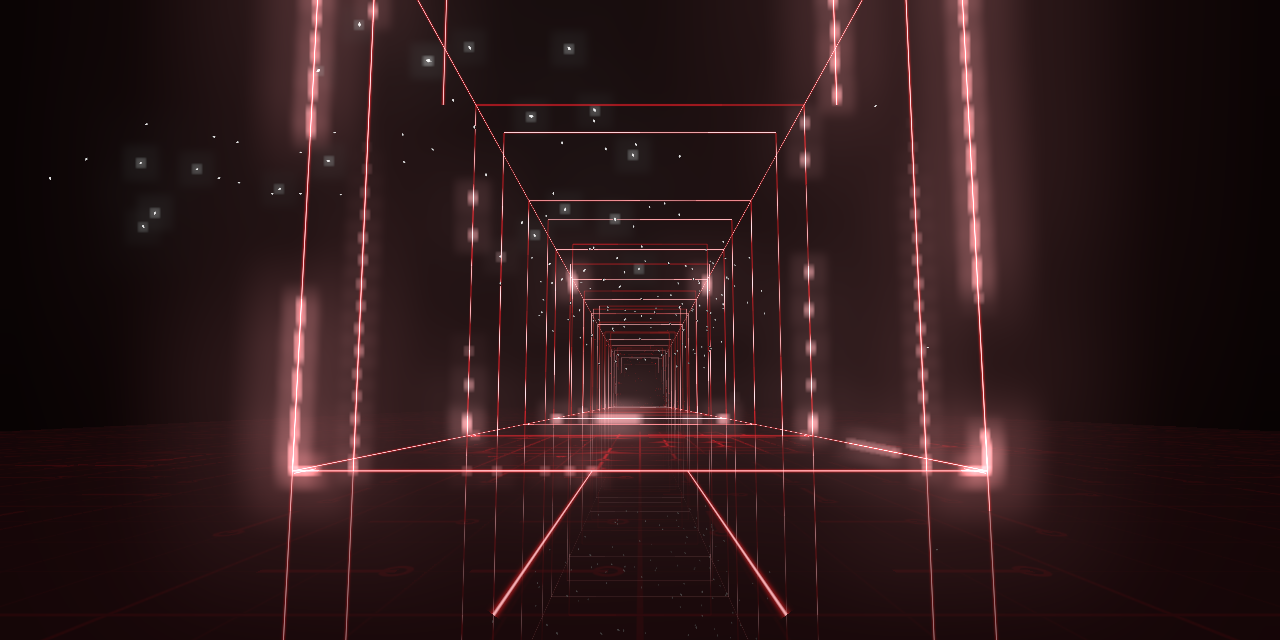
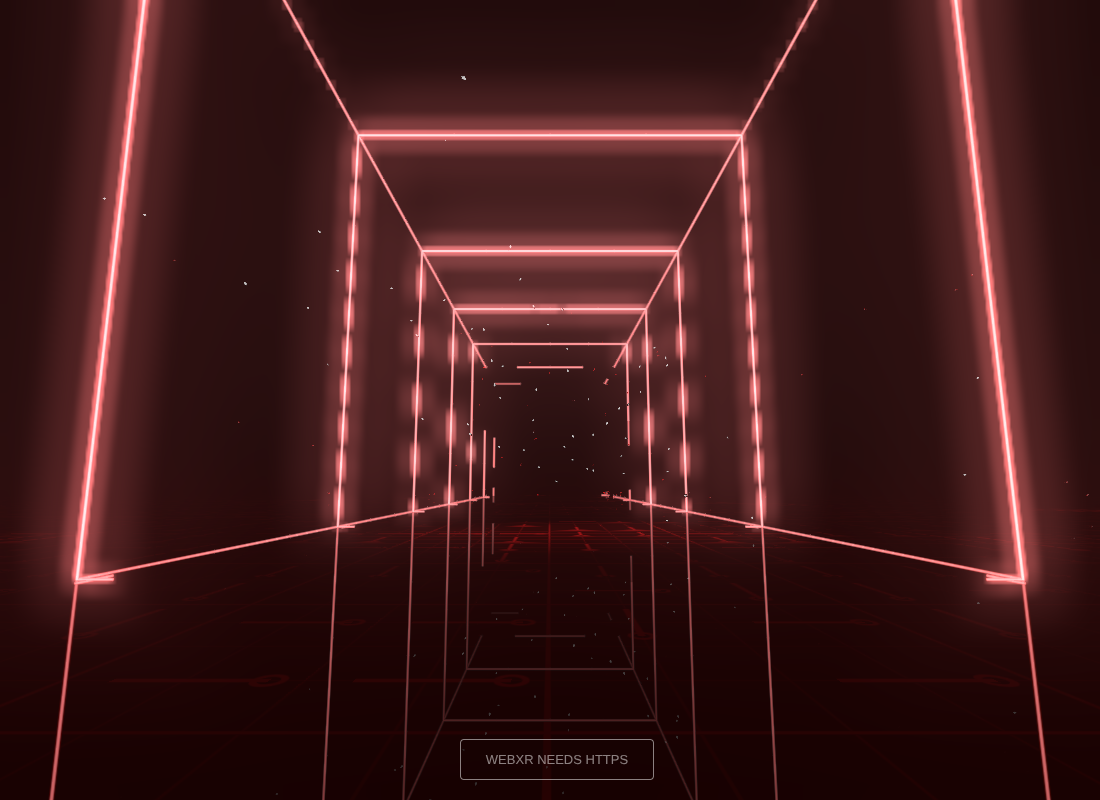
Cruzamento de 4 corredores, linhas únicas e transições de cor
- O participante fica no centro de um cruzamento; os quatro braços constroem-se
  ao mesmo tempo, do centro para fora, e a onda de luz é radial.
- Uma só moldura por anel e um só arco Λ (sem molduras/arcos interiores nem
  chevrons junto ao vértice), para não haver linhas duplicadas.
- Paleta ao longo da timeline (linhas, cursores, chão, névoa e horizonte).

Claude-Session: https://claude.ai/code/session_014cErPYdH6zWq8Ho8MftZNa

diff --git a/structure/blueprints.js b/structure/blueprints.js
@@ -8,17 +8,35 @@ import { mulberry32 } from '../util/math.js';
 
 const MAX_PIECE = 4.2;
 
-// Escala: valores escolhidos dentro das propostas do prompt (molduras 12–20 m, corredor 150–250 m).
+// Escala: molduras 16 m, arcos 24 m. O participante está no centro de um cruzamento:
+// quatro corredores (braços) saem do centro, um para cada lado, e perdem-se na névoa.
 export const SCALE = {
   squareSize: 16,      // molduras quadradas: 16 x 16 m
-  squareRings: 16,
-  squareSpacing: 12,   // 16 anéis * 12 m: o túnel vai até ~-192 m
+  squareRings: 9,      // anéis por braço
+  squareSpacing: 12,   // 9 anéis * 12 m: cada braço vai até ~106 m
+  squareFirst: 10,     // distância do centro ao primeiro anel
   archHeight: 24,      // arcos Λ: 24 m de altura, mais monumentais
   archHalfBase: 14,
-  archRings: 18,
-  archSpacing: 11,     // até ~-197 m
-  firstZ: -12,
+  archRings: 9,
+  archSpacing: 11,
+  archFirst: 15,       // > meia-base: os arcos de braços vizinhos não se cruzam
+  arms: 4,
 };
+
+// roda um ponto em torno do eixo vertical, 90° por braço (braço 0 = -Z, à frente)
+function rotArm([x, y, z], k) {
+  const a = (k * Math.PI) / 2, c = Math.round(Math.cos(a)), s = Math.round(Math.sin(a));
+  return [x * c + z * s, y, -x * s + z * c];
+}
+function inArms(build) {
+  const B = new Builder();
+  for (let k = 0; k < SCALE.arms; k++) {
+    const sub = new Builder();
+    build(sub);
+    for (const seg of sub.segments) B.segments.push({ ...seg, a: rotArm(seg.a, k), b: rotArm(seg.b, k) });
+  }
+  return B.segments;
+}
 
 class Builder {
   constructor() { this.segments = []; }
@@ -74,76 +92,50 @@ function baseMarkers(B, x, z, ring) {
   B.edge([x + s * 0.3, 0, z + 0.4], [x + s * 0.3, 0, z - 0.4], ring, { weight: 0.5, delay: 1 });
 }
 
+// Uma única moldura por anel (sem molduras concêntricas, que se liam como linhas duplicadas).
 export function squareTunnel() {
-  const B = new Builder();
-  const { squareSize: S, squareRings: R, squareSpacing: D, firstZ } = SCALE;
+  const { squareSize: S, squareRings: R, squareSpacing: D, squareFirst } = SCALE;
   const h = S / 2;
-  for (let r = 0; r < R; r++) {
-    const z = firstZ - r * D;
-    // moldura exterior: começa num canto do chão, sobe, atravessa o topo e desce
-    B.poly([[-h, 0, z], [-h, S, z], [h, S, z], [h, 0, z]], r, false);
-    // linha do chão da moldura (mais fina)
-    B.edge([-h, 0, z], [h, 0, z], r, { weight: 0.6, delay: 2 });
-    // moldura concêntrica interior
-    const i1 = 1.4;
-    B.poly([[-h + i1, 0, z], [-h + i1, S - i1, z], [h - i1, S - i1, z], [h - i1, 0, z]], r, false, { delay: 3, weight: 0.8 });
-    // terceira moldura, em anéis alternados (ritmo)
-    if (r % 2 === 0) {
-      const i2 = 3.2;
-      B.poly([[-h + i2, S - i2 - 4, z], [-h + i2, S - i2, z], [h - i2, S - i2, z], [h - i2, S - i2 - 4, z]], r, false, { delay: 6, weight: 0.55 });
+  const segments = inArms((B) => {
+    for (let r = 0; r < R; r++) {
+      const z = -squareFirst - r * D;
+      // moldura: começa num canto do chão, sobe, atravessa o topo e desce
+      B.poly([[-h, 0, z], [-h, S, z], [h, S, z], [h, 0, z]], r, false);
+      baseMarkers(B, -h, z, r);
+      baseMarkers(B, h, z, r);
+      // calhas longitudinais que ligam este anel ao seguinte (topo e chão)
+      if (r < R - 1) {
+        const z2 = z - D;
+        B.edge([-h, S, z], [-h, S, z2], r, { delay: 5, weight: 0.7 });
+        B.edge([h, S, z], [h, S, z2], r, { delay: 5, weight: 0.7 });
+        B.edge([-h, 0, z], [-h, 0, z2], r, { delay: 4, weight: 0.5 });
+        B.edge([h, 0, z], [h, 0, z2], r, { delay: 4, weight: 0.5 });
+      }
     }
-    baseMarkers(B, -h, z, r);
-    baseMarkers(B, h, z, r);
-    // calhas longitudinais que ligam este anel ao seguinte (topo e chão)
-    if (r < R - 1) {
-      const z2 = z - D;
-      B.edge([-h, S, z], [-h, S, z2], r, { delay: 5, weight: 0.7 });
-      B.edge([h, S, z], [h, S, z2], r, { delay: 5, weight: 0.7 });
-      B.edge([-h, 0, z], [-h, 0, z2], r, { delay: 4, weight: 0.5 });
-      B.edge([h, 0, z], [h, 0, z2], r, { delay: 4, weight: 0.5 });
-    }
-  }
-  // linhas do chão à escala humana, ao longo do eixo (guias de 1 m)
-  for (let k = 0; k < 2; k++) {
-    const x = k ? 1.1 : -1.1;
-    B.edge([x, 0, -4], [x, 0, firstZ], 0, { weight: 0.35, delay: 0 });
-  }
-  return { name: 'squareTunnel', segments: B.segments, rings: R };
+  });
+  return { name: 'squareTunnel', segments, rings: R };
 }
 
+// Um único arco Λ por anel (sem o Λ interior nem os chevrons junto ao vértice).
 export function chevronCorridor() {
-  const B = new Builder();
-  const { archHeight: H, archHalfBase: W, archRings: R, archSpacing: D, firstZ } = SCALE;
-  for (let r = 0; r < R; r++) {
-    const z = firstZ + 2 - r * D;
-    // arco triangular Λ: sobe pelas duas pernas em simultâneo (delay igual) até ao vértice
-    B.edge([-W, 0, z], [0, H, z], r, {});
-    B.edge([W, 0, z], [0, H, z], r, {});
-    // Λ interior
-    const k = 0.78;
-    B.edge([-W * k, 0, z], [0, H * k, z], r, { delay: 2, weight: 0.75 });
-    B.edge([W * k, 0, z], [0, H * k, z], r, { delay: 2, weight: 0.75 });
-    // chevrons junto ao vértice
-    for (let c = 0; c < 2; c++) {
-      const y = H * (0.86 - c * 0.08), w = W * (0.1 + c * 0.08);
-      const yt = y + w * (H / W);
-      B.poly([[-w, y, z], [0, yt, z], [w, y, z]], r, false, { delay: 5 + c, weight: 0.6 });
+  const { archHeight: H, archHalfBase: W, archRings: R, archSpacing: D, archFirst } = SCALE;
+  const segments = inArms((B) => {
+    for (let r = 0; r < R; r++) {
+      const z = -archFirst - r * D;
+      // sobe pelas duas pernas em simultâneo (delay igual) até ao vértice
+      B.edge([-W, 0, z], [0, H, z], r, {});
+      B.edge([W, 0, z], [0, H, z], r, {});
+      baseMarkers(B, -W, z, r);
+      baseMarkers(B, W, z, r);
+      if (r < R - 1) {
+        const z2 = z - D;
+        B.edge([0, H, z], [0, H, z2], r, { delay: 6, weight: 0.8 }); // cumeeira
+        B.edge([-W, 0, z], [-W, 0, z2], r, { delay: 4, weight: 0.5 });
+        B.edge([W, 0, z], [W, 0, z2], r, { delay: 4, weight: 0.5 });
+      }
     }
-    baseMarkers(B, -W, z, r);
-    baseMarkers(B, W, z, r);
-    if (r < R - 1) {
-      const z2 = z - D;
-      // cumeeira que liga os vértices
-      B.edge([0, H, z], [0, H, z2], r, { delay: 6, weight: 0.8 });
-      B.edge([-W, 0, z], [-W, 0, z2], r, { delay: 4, weight: 0.5 });
-      B.edge([W, 0, z], [W, 0, z2], r, { delay: 4, weight: 0.5 });
-    }
-  }
-  for (let k = 0; k < 2; k++) {
-    const x = k ? 1.1 : -1.1;
-    B.edge([x, 0, -4], [x, 0, firstZ + 2], 0, { weight: 0.35 });
-  }
-  return { name: 'chevronCorridor', segments: B.segments, rings: R };
+  });
+  return { name: 'chevronCorridor', segments, rings: R };
 }
 
 // Mistura: anéis alternados quadrados e triangulares (para o painel de debug).
@@ -157,22 +149,8 @@ export function mixed() {
 
 export const BLUEPRINTS = { squareTunnel, chevronCorridor, mixed };
 
-// Linhas de perspetiva nas paredes laterais, a convergir para o ponto de fuga do corredor.
-export function wallPerspectiveLines() {
-  const segs = [];
-  const vp = [0, 1.6, -320];
-  for (const sx of [-1, 1]) {
-    const x = sx * 26;
-    for (let i = 0; i < 9; i++) {
-      const y = i * 4.5;
-      const a = [x, y, 4];
-      const t = 0.62; // até onde a linha vai em direção ao ponto de fuga
-      const b = [x, y + (vp[1] - y) * t, a[2] + (vp[2] - a[2]) * t];
-      segs.push({ a, b, ring: 0, stagger: 0, weight: 0.22 });
-    }
-  }
-  return segs;
-}
+// Linhas de perspetiva nas paredes: retiradas no cruzamento (não há paredes laterais).
+export function wallPerspectiveLines() { return []; }
 
 export function shuffleWithSeed(arr, seed) {
   const r = mulberry32(seed);

diff --git a/director.js b/director.js
@@ -4,6 +4,7 @@
 // (pulso, onda de luz, fade) em função do tempo. Simulação em passo fixo com seed fixa:
 // a sequência é sempre igual.
 
+import * as THREE from 'three';
 import { TIMELINE } from './timeline.js';
 import { BLUEPRINTS } from './structure/blueprints.js';
 import { mulberry32, smooth, clamp } from './util/math.js';
@@ -274,8 +275,32 @@ export class Director {
   }
 
   // ------------------------------------------------------------------ visuais em função de t
+  // transição de cor: interpola as chaves de TIMELINE.palette e aplica às linhas, cursores,
+  // chão, névoa e horizonte
+  applyPalette(t) {
+    const P = this.cfg.palette;
+    if (!this._pal) {
+      this._pal = P.map((k) => ({ t: k.t, line: new THREE.Color(k.line), warm: new THREE.Color(k.warm), hot: new THREE.Color(k.hot), ambient: new THREE.Color(k.ambient) }));
+      this._c = { line: new THREE.Color(), warm: new THREE.Color(), hot: new THREE.Color(), ambient: new THREE.Color() };
+    }
+    const K = this._pal;
+    let i = 0;
+    while (i < K.length - 2 && t > K[i + 1].t) i++;
+    const A = K[i], B = K[i + 1];
+    const u = smooth(0, 1, (t - A.t) / Math.max(1e-3, B.t - A.t));
+    for (const key of ['line', 'warm', 'hot', 'ambient']) this._c[key].copy(A[key]).lerp(B[key], u);
+    const U = this.lines.uniforms, F = this.env.floorUniforms, c = this._c;
+    U.uColor.value.copy(c.line); U.uWarm.value.copy(c.warm); U.uHot.value.copy(c.hot);
+    this.swarm.uniforms.uRed.value.copy(c.line);
+    F.uColor.value.copy(c.line);
+    F.uAmbient.value.copy(c.ambient);
+    F.uFogColor.value.copy(c.ambient).multiplyScalar(0.0045);
+    if (this.env.scene.fog) this.env.scene.fog.color.copy(c.ambient).multiplyScalar(0.03);
+  }
+
   applyVisuals() {
     const t = this.t, cfg = this.cfg, U = this.lines.uniforms, cx = cfg.climax, c = cfg.complete;
+    this.applyPalette(t);
     const p1 = this.P('complete1');
     let pulse = 0, waveZ = 1000, waveAmp = 0;
     // estrutura completa: respiração suave + onda do primeiro ao último anel
@@ -284,7 +309,7 @@ export class Director {
     }
     if (t >= c.waveAt && t < c.waveAt + c.waveDuration + 1) {
       const k = (t - c.waveAt) / c.waveDuration;
-      waveZ = -6 - k * 210; waveAmp = 1.3 * (1 - smooth(0.85, 1.15, k));
+      waveZ = 6 + k * 110; waveAmp = 1.3 * (1 - smooth(0.85, 1.15, k));
     }
     // clímax: pulso cada vez mais rápido e ondas repetidas
     if (t >= cx.pulseFrom) {
@@ -292,7 +317,7 @@ export class Director {
       const f = 0.6 + 2.2 * k;
       pulse = 0.15 + 0.85 * k * (0.5 + 0.5 * Math.sin((t - cx.pulseFrom) * f * Math.PI * 2));
       const wt = (t - cx.pulseFrom) % 2.2;
-      waveZ = -6 - wt / 2.2 * 220; waveAmp = 1.2 * k;
+      waveZ = 6 + wt / 2.2 * 115; waveAmp = 1.2 * k;
     }
     U.uPulse.value = pulse;
     U.uWaveZ.value = waveZ;

diff --git a/scene/environment.js b/scene/environment.js
@@ -7,8 +7,8 @@ import * as THREE from 'three';
 import { NeonLines } from '../structure/neonLines.js';
 import { wallPerspectiveLines } from '../structure/blueprints.js';
 
-export const FLOOR = { x0: -34, x1: 34, z0: 6, z1: -260 };
-const HEAT_W = 48, HEAT_H = 192;
+export const FLOOR = { x0: -115, x1: 115, z0: 115, z1: -115 }; // zona do cruzamento com mapa de calor
+const HEAT_W = 128, HEAT_H = 128;
 
 const floorVert = /* glsl */`
   varying vec3 vWorld;
@@ -24,6 +24,7 @@ const floorFrag = /* glsl */`
   uniform float uFogDensity;
   uniform vec3 uFogColor;
   uniform vec3 uColor;
+  uniform vec3 uAmbient;     // cor da iluminação ambiente (muda com a timeline)
   uniform float uGlow;        // iluminação geral do chão (sobe com a estrutura)
   uniform float uWaveZ;
   uniform float uWaveAmp;
@@ -60,9 +61,9 @@ const floorFrag = /* glsl */`
     float heat = texture2D(uHeat, clamp(uv, 0.0, 1.0)).r * inside;
     float dist = length(cameraPosition - vWorld);
     float c = circuit(vWorld.xz) * (1.0 - smoothstep(60.0, 160.0, dist)); // sem moiré ao longe
-    float wave = uWaveAmp * exp(-pow((vWorld.z - uWaveZ) / 9.0, 2.0));
+    float wave = uWaveAmp * exp(-pow((length(vWorld.xz) - uWaveZ) / 9.0, 2.0)); // onda radial a partir do centro
     // base quase preta e um pouco brilhante; o padrão quase invisível acende com o calor
-    vec3 base = vec3(0.006, 0.0012, 0.0016);
+    vec3 base = uAmbient * 0.0075;
     vec3 col = base + uColor * c * (0.01 + uGlow * 0.018 + heat * 0.4 + wave * 0.2);
     col += uColor * heat * 0.02;
     // névoa exp2 (igual às linhas) + um decaimento exponencial mais suave só no chão:
@@ -98,6 +99,7 @@ export class Environment {
       uFogDensity: { value: scene.fog.density },
       uFogColor: { value: new THREE.Color().setRGB(0.0035, 0.0006, 0.0008) }, // = cor da névoa no horizonte
       uColor: { value: new THREE.Color('#ff1a2a') },
+      uAmbient: { value: new THREE.Color('#ff2a3a') },
       uGlow: { value: 0 },
       uWaveZ: { value: 1000 },
       uWaveAmp: { value: 0 },

diff --git a/timeline.js b/timeline.js
@@ -42,6 +42,20 @@ export const TIMELINE = {
 
   climax: { pulseFrom: 105, disperseAt: 108, disperseWindow: 4, fadeStart: 113, fadeEnd: 119.5 },
 
+  // Paleta ao longo do tempo (interpolada entre chaves). line: halo das linhas, warm: variação
+  // quente do halo, hot: núcleo, ambient: tom da névoa, do chão e do horizonte.
+  palette: [
+    { t: 0,   line: '#ff1a2a', warm: '#ff3b1a', hot: '#ff9aa6', ambient: '#ff1a2a' },
+    { t: 40,  line: '#ff1a2a', warm: '#ff3b1a', hot: '#ff9aa6', ambient: '#ff1a2a' },
+    { t: 56,  line: '#ff3a14', warm: '#ff6a10', hot: '#ffa888', ambient: '#ff3010' },
+    { t: 63,  line: '#ff6a10', warm: '#ffa020', hot: '#ffc080', ambient: '#ff5a10' },
+    { t: 72,  line: '#ff1450', warm: '#ff2a80', hot: '#ff9ccc', ambient: '#c0103a' },
+    { t: 82,  line: '#ff2a1a', warm: '#ff5a1a', hot: '#ffa48c', ambient: '#ff2010' },
+    { t: 100, line: '#ff7a14', warm: '#ffb02a', hot: '#ffc870', ambient: '#ff6a12' },
+    { t: 108, line: '#ff2a6a', warm: '#ff60a0', hot: '#ffc8e0', ambient: '#ff2060' },
+    { t: 120, line: '#ff1a2a', warm: '#ff3b1a', hot: '#ff9aa6', ambient: '#ff1a2a' },
+  ],
+
   // Câmara do modo cinemático (Desktop). pos e look interpolados com suavização.
   cinematic: [
     { t: 0,   pos: [0, 1.6, 2],    look: [0, 4, -40] },

diff --git a/structure/neonLines.js b/structure/neonLines.js
@@ -93,11 +93,11 @@ const frag = /* glsl */`
     // halo que chega a zero exatamente na borda do quad: sem arestas visíveis
     float win = (1.0 - d * d); win *= win;
     float glow = (exp(-d * d * 9.0) * 0.5 + exp(-d * 4.0) * 0.12) * win;
-    float wave = uWaveAmp * exp(-pow((vWorld.z - uWaveZ) / 7.0, 2.0));
+    float wave = uWaveAmp * exp(-pow((length(vWorld.xz) - uWaveZ) / 7.0, 2.0)); // onda radial: do centro do cruzamento para fora
     float flicker = 0.95 + 0.05 * sin(uTime * 23.0 + vWorld.z * 0.21 + vWorld.y * 0.13);
     float I = vInt * uGlobal * flicker * (1.0 + uPulse + wave * 2.5);
     vec3 halo = mix(uColor, uWarm, 0.25 + 0.25 * sin(vWorld.z * 0.045 + vWorld.x * 0.08));
-    vec3 col = halo * glow * I * 1.25 + uHot * core * I * (1.1 + wave);
+    vec3 col = halo * glow * I * 1.25 + uHot * core * I * (0.95 + wave);
     float fog = exp(-pow(uFogDensity * vDist, 2.0));
     col *= fog;
     if (uMirror > 0.5) col *= uOpacity * exp(-vMirrorDepth * 0.14);

diff --git a/README.md b/README.md
@@ -109,3 +109,11 @@ Segue o doc "Arquitetura de síntese áudio em tempo real para VR" (variante Web
 - **Níveis**: high-pass, compressor e limitador a -3 dBFS na saída. No Quest o sub é substituído
   pela 2.ª harmónica, porque os altifalantes do headset não reproduzem graves abaixo de ~100 Hz.
 - O `AudioWorklet` precisa de contexto seguro (HTTPS ou localhost). Sem ele só se ouvem os efeitos.
+
+## Cruzamento e cor
+
+O participante está no centro de um cruzamento: quatro corredores saem do centro, um para cada
+lado, e todos se constroem ao mesmo tempo, do centro para fora. A onda de luz também parte do
+centro. A cor das linhas, do chão e da névoa no horizonte muda ao longo da sequência
+(vermelho, laranja na onda de luz, magenta ao apagar, âmbar na construção 2, rosa no clímax).
+As chaves estão em `palette`, em `timeline.js`.
